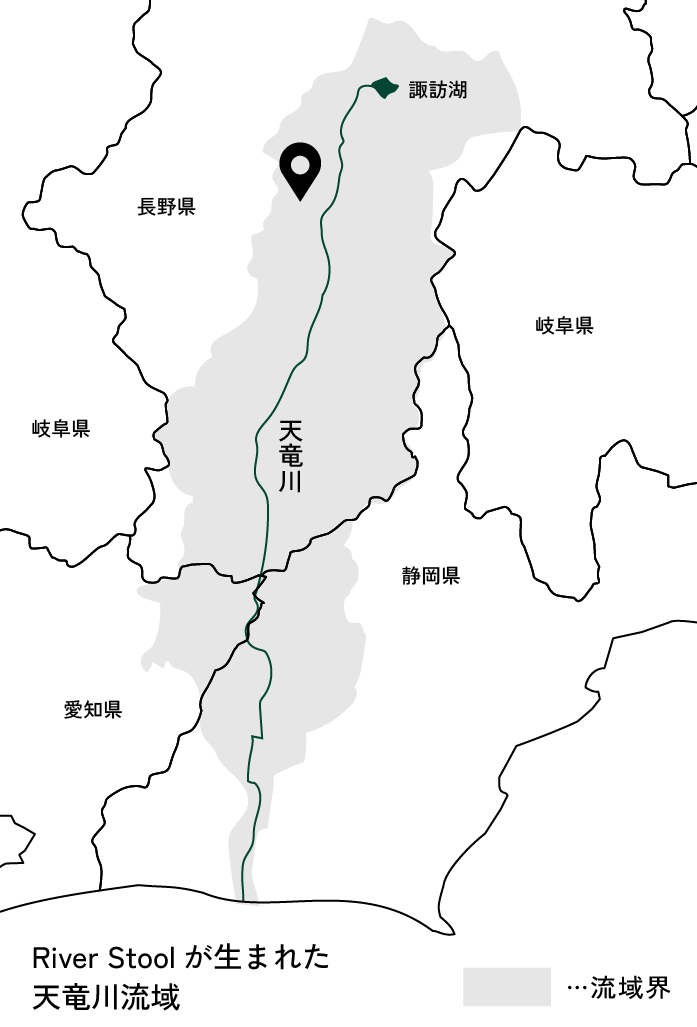
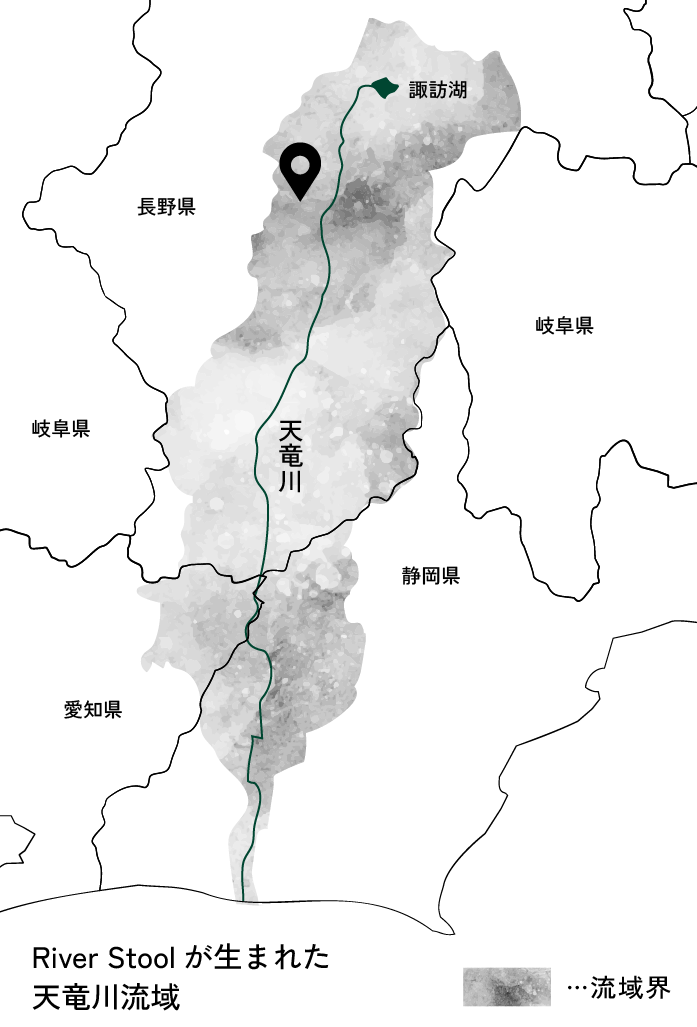
Resize river basin map to 80%, update its image content, add cache-busting
Reduced the map image (zu_ryuiki_river2.png) to 80% of its previous
display size on both PC (.story__slide-image img) and SP
(.story__mobile-card-image, kept centered via margin:auto) - the
portrait photo in slide 2 keeps its own fixed size, unaffected.

Replaced zu_ryuiki_river2.png with a refined version (textured basin
fill) at the same filename/dimensions, and appended a ?v=2 query
string to both <img> references so browsers fetch the new content
instead of serving a cached copy of the old one.

diff --git a/style.css b/style.css
@@ -1035,7 +1035,10 @@ ol {
 }
 
 .story__slide-image img {
-  width: 100%;
+  /* 80% of its previous size - only affects the map image (slide 1);
+     .story__slide-image--portrait img's own fixed 252px width below
+     still overrides this for slide 2's portrait photo. */
+  width: 80%;
   height: auto;
   object-fit: contain;
 }
@@ -1395,8 +1398,11 @@ ol {
        text is baked into the image itself, so cropping (the previous
        295/390 ratio was tuned for the old, differently-proportioned
        map image) could cut off part of it rather than just trimming
-       empty background. */
-    width: 100%;
+       empty background. 80% width (centered) matches the PC map
+       image's own 80% resize; .story__mobile-card-image--portrait
+       below keeps its own fixed width for slide 2's portrait photo. */
+    width: 80%;
+    margin: 0 auto;
     aspect-ratio: 697 / 1027;
     overflow: hidden;
   }

diff --git a/index.html b/index.html
@@ -232,7 +232,7 @@
                 </div>
               </div>
               <div class="story__slide-image">
-                <img src="assets/zu_ryuiki_river2.png" alt="River Stoolが生まれた流域">
+                <img src="assets/zu_ryuiki_river2.png?v=2" alt="River Stoolが生まれた流域">
               </div>
             </div>
           </div>
@@ -283,7 +283,7 @@
             山や森のために、今回はその源にある水からものづくりをはじめてみようと思いました。そうして生まれたのが、Riverと名付けたこのスツールです。</p>
           </div>
           <div class="story__mobile-card-image">
-            <img src="assets/zu_ryuiki_river2.png" alt="River Stoolが生まれた流域">
+            <img src="assets/zu_ryuiki_river2.png?v=2" alt="River Stoolが生まれた流域">
           </div>
         </div>
 
